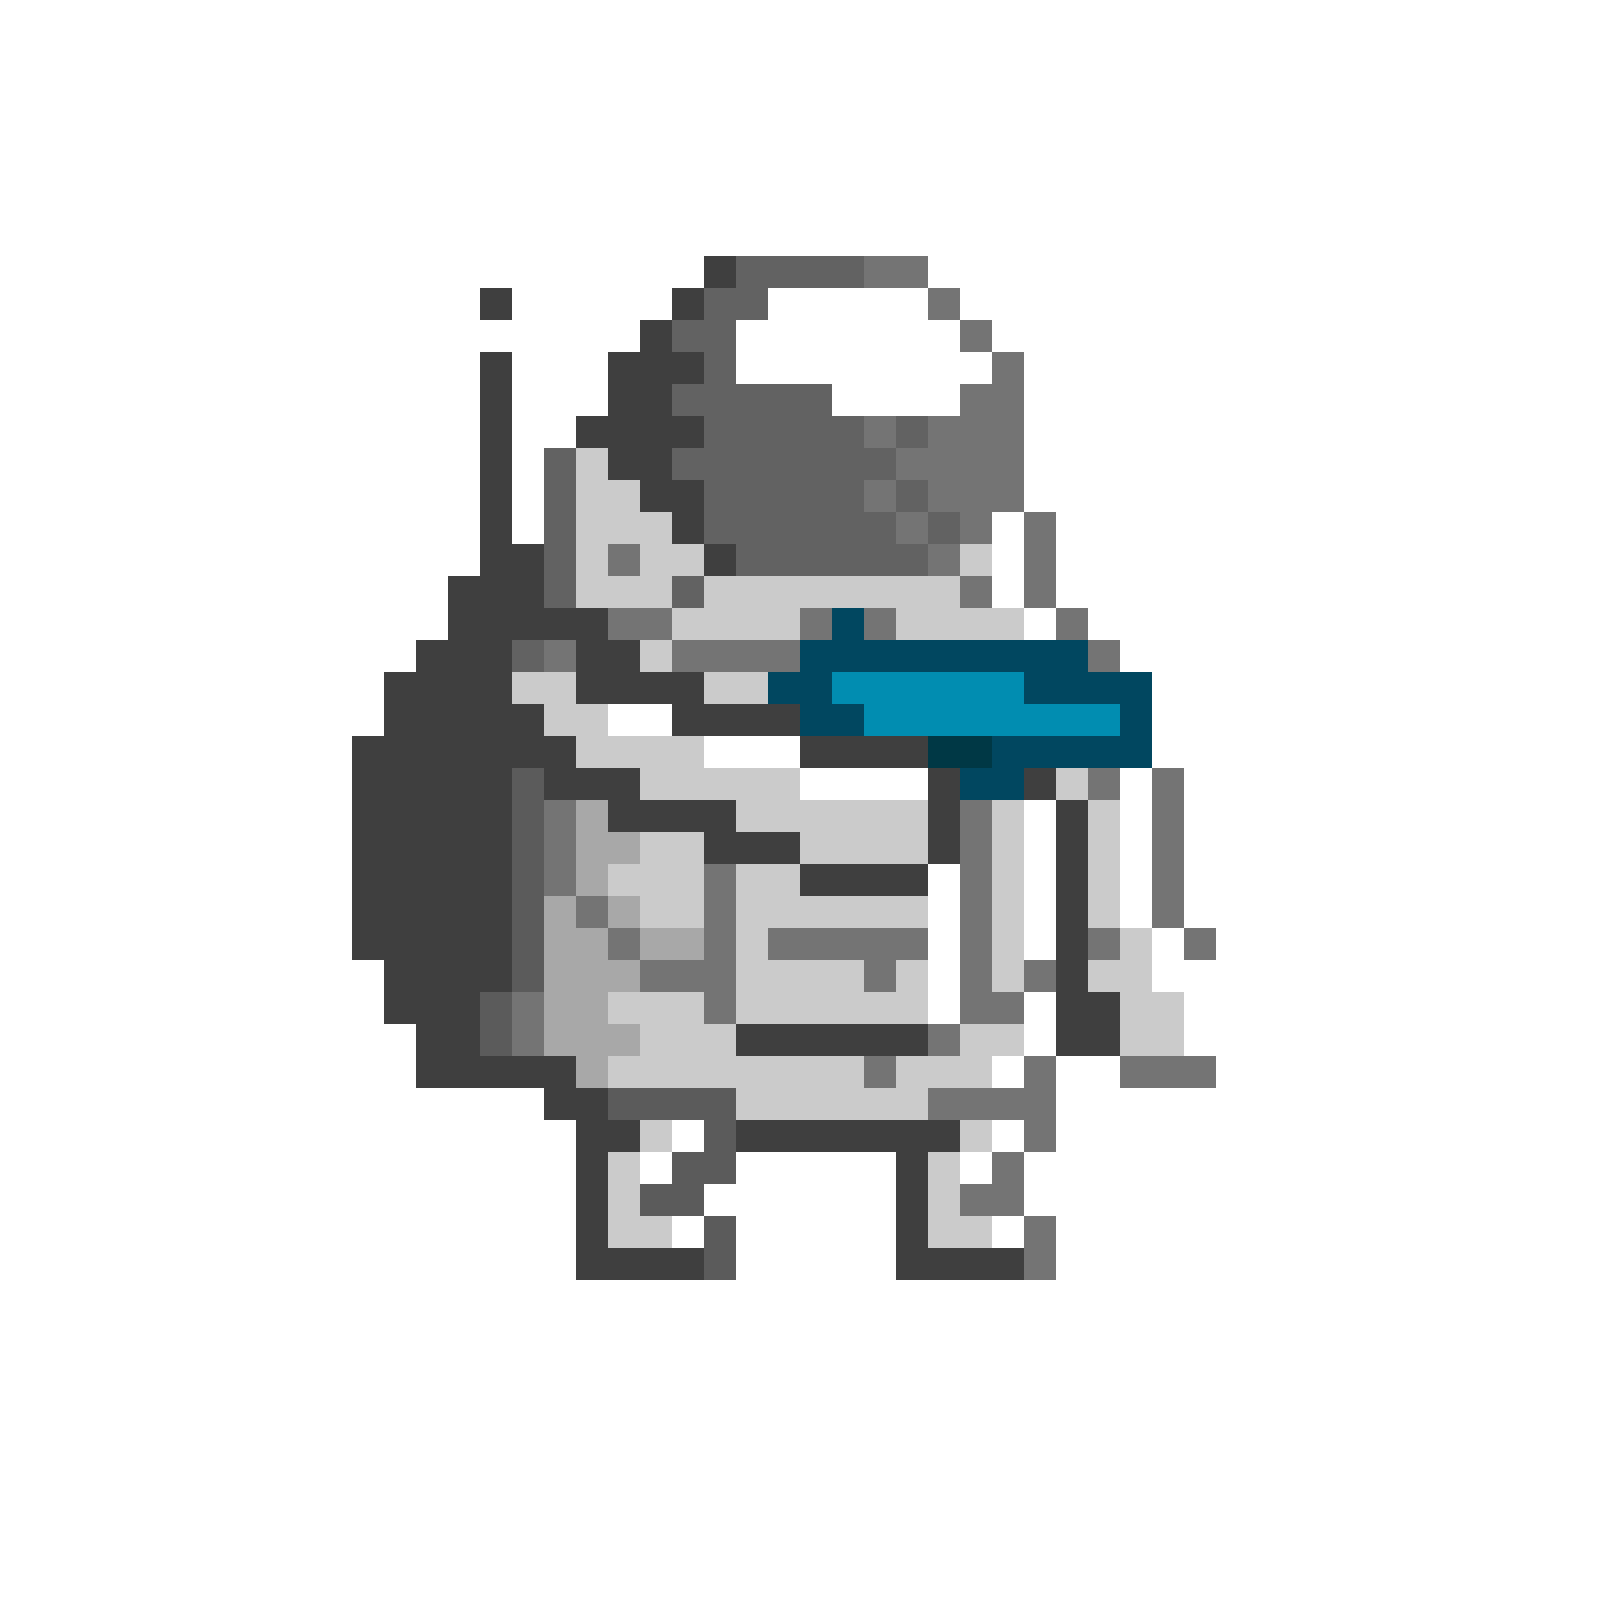
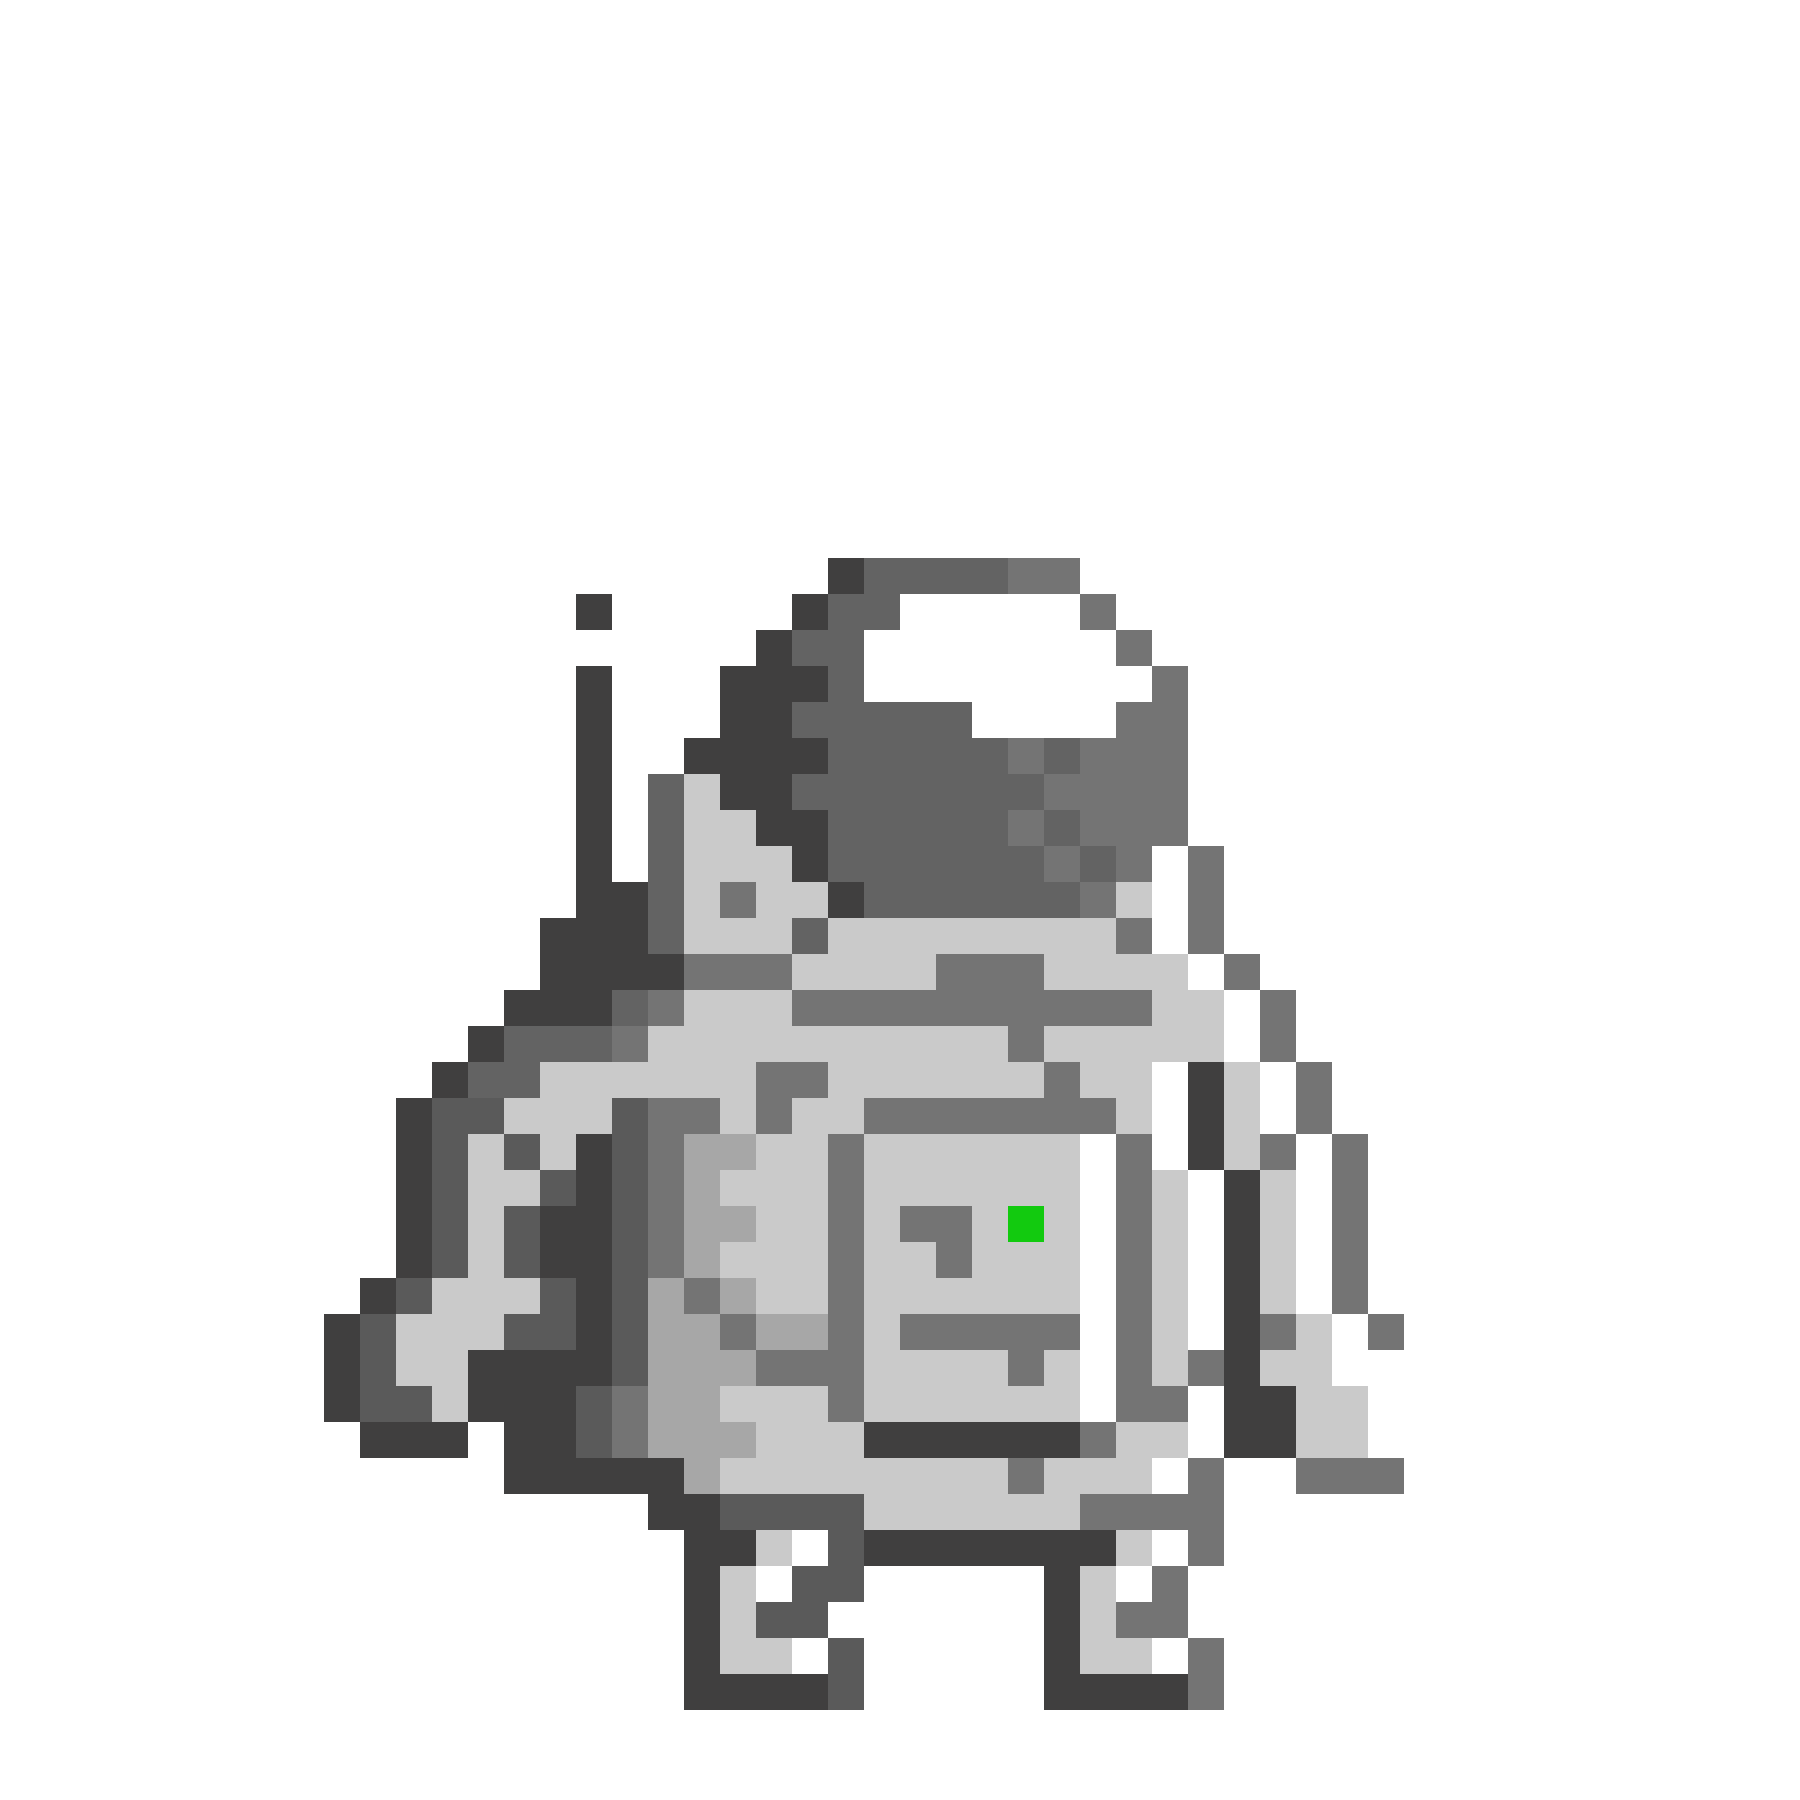
Add sprites

Changed region(s): [[0.1562, 0.1562, 0.7812, 0.9688]]

diff --git a/src/characters/Astronauts/DefenderTower.java b/src/characters/Astronauts/DefenderTower.java
@@ -14,13 +14,17 @@ public abstract class DefenderTower extends BoardCharacter{
 	public static final String EXPLOSIVE_ASTRO_JOE_IMAGE 	= "file:assets/explosive-astro-joe.png";
 	public static final String EXPLOSIVE_ASTRO_JOE_GIF		= "file:assets/explosive-astro-joe.gif";
 	
-	public static final String STARTRELL_CLUGGINS_IMAGE = "file:assets/startrell-cluggins.png";
+	public static final String STARTRELL_CLUGGINS_IMAGE 		= "file:assets/startrell-cluggins.png";
+	public static final String STARTRELL_CLUGGINS_GIF   		= "file:assets/startrell-cluggins.gif";
+	public static final String STARTRELL_CLUGGINS_FIRING_GIF   	= "file:assets/startrell-cluggins-firing.gif";
 	
 	public static final String TARS_IMAGE 				= "file:assets/tars.png";
 	public static final String TARS_GIF					= "file:assets/tars.gif";
 	public static final String TARS_FIRING_GIF			= "file:assets/tars-firing.gif";
 	
 	public static final String MOON_ZEUS_IMAGE 			= "file:assets/moon-zeus.png";
+	public static final String MOON_ZEUS_GIF 			= "file:assets/moon-zeus.gif";
+	public static final String MOON_ZEUS_FIRING_GIF		= "file:assets/moon-zeus-firing.gif";
 	
 	public static final String ASTEROID_IMAGE 			= "file:assets/asteroid.png";
 	public static final String ASTEROID_GIF				= "file:assets/asteroid.gif";
@@ -36,55 +40,55 @@ public abstract class DefenderTower extends BoardCharacter{
 	protected static final int HEALTH_ASTROJOE = 100;
 	protected static final int ATTACK_SPEED_ASTROJOE = 100;	
 	protected static final int DAMAGE_ASTROJOE = 100;
-	protected static final int COST_ASTROJOE = 15;
+	protected static final int COST_ASTROJOE = 25;
 	
 	// ExplosiveAstroJoe
 	protected static final int HEALTH_EXPLOSIVE_ASTROJOE = 100;
 	protected static final int ATTACK_SPEED_EXPLOSIVE_ASTROJOE = 100;
 	protected static final int DAMAGE_EXPLOSIVE_ASTROJOE = 100;
-	protected static final int COST_EXPLOSIVE_ASTROJOE = 25;
+	protected static final int COST_EXPLOSIVE_ASTROJOE = 50;
 	
 	// SpaceBucksPrinter
 	protected static final int HEALTH_SPACEBUCKS_PRINTER = 100;
 	protected static final int ATTACK_SPEED_SPACEBUCKS_PRINTER = 100;
 	protected static final int DAMAGE_SPACEBUCKS_PRINTER = 100;
-	protected static final int COST_SPACEBUCKS_PRINTER = 10;
+	protected static final int COST_SPACEBUCKS_PRINTER = 25;
 	
 	// SpaceBucksFactory
 	protected static final int HEALTH_SPACEBUCKS_FACTORY = 100;
 	protected static final int ATTACK_SPEED_SPACEBUCKS_FACTORY = 100;
 	protected static final int DAMAGE_SPACEBUCKS_FACTORY = 100;
-	protected static final int COST_SPACEBUCKS_FACTORY = 30;
+	protected static final int COST_SPACEBUCKS_FACTORY = 100;
 	
 	// StartrellCluggins
 	protected static final int HEALTH_STARTRELL_CLUGGINS = 100;
 	protected static final int ATTACK_SPEED_STARTRELL_CLUGGINS = 100;
 	protected static final int DAMAGE_STARTRELL_CLUGGINS = 100;
-	protected static final int COST_STARTRELL_CLUGGINS = 25;
+	protected static final int COST_STARTRELL_CLUGGINS = 50;
 	
 	// Asteroid
 	protected static final int HEALTH_ASTEROID = 100;
 	protected static final int ATTACK_SPEED_ASTEROID = 100;
 	protected static final int DAMAGE_ASTEROID = 100;
-	protected static final int COST_ASTEROID = 20;
+	protected static final int COST_ASTEROID = 25;
 	
 	// Tars
 	protected static final int HEALTH_TARS = 100;
 	protected static final int ATTACK_SPEED_TARS = 100;
 	protected static final int DAMAGE_TARS = 100;
-	protected static final int COST_TARS = 40;
+	protected static final int COST_TARS = 75;
 	
 	// MoonZeus
 	protected static final int HEALTH_MOON_ZEUS = 100;
 	protected static final int ATTACK_SPEED_MOON_ZEUS = 100;
 	protected static final int DAMAGE_MOON_ZEUS = 100;
-	protected static final int COST_MOON_ZEUS = 50;
+	protected static final int COST_MOON_ZEUS = 125;
 	
 	//MillenniumFalcon
 	protected static final int HEALTH_MILLENNIUM_FALCON = 100;
 	protected static final int ATTACK_SPEED_MILLENNIUM_FALCON = 100;
 	protected static final int DAMAGE_MILLENNIUM_FALCON = 100;
-	protected static final int COST_MILLENNIUM_FALCON = 100;
+	protected static final int COST_MILLENNIUM_FALCON = 250;
 	
 	
 	// Constructor

diff --git a/src/game/View.java b/src/game/View.java
@@ -44,6 +44,7 @@ public class View extends Application implements Observer{
 	// View-specific constants
 	private final int SCENE_WIDTH = 1300;
 	private final int SCENE_HEIGHT = 800;
+	private final int GP_CELL_SIZE = 80;
 	private final int CELL_GAP = 5;
 	private final int TITLE_TOP_MARGIN = 75;
 	private final int PROGRESSBAR_TOP_MARGIN = 50;
@@ -123,7 +124,7 @@ public class View extends Application implements Observer{
 		
 		// Create ImageViews for Astronaut & Alien
 		ImageView astronautImageView = new ImageView();
-		astronautImageView.setImage(new Image(DefenderTower.ASTRO_JOE_GIF, ASTRO_WIDTH, ASTRO_HEIGHT, false, false));
+		astronautImageView.setImage(new Image(DefenderTower.STARTRELL_CLUGGINS_GIF, ASTRO_WIDTH, ASTRO_HEIGHT, false, false));
 		
 		ImageView alienImageView = new ImageView();
 		alienImageView.setImage(new Image("file:assets/alien-sample.png", ALIEN_WIDTH, ALIEN_HEIGHT, false, false));
@@ -258,7 +259,7 @@ public class View extends Application implements Observer{
 		gridPane = new GridPane();
 		gridPane.setHgap(CELL_GAP);
 		gridPane.setVgap(CELL_GAP);
-		gridPane.setGridLinesVisible(true);
+//		gridPane.setGridLinesVisible(true);
 		gridPane.setAlignment(Pos.CENTER);
 		gridPane.setPadding(new Insets(GRIDPANE_TOP_MARGIN, 0, 0, 0));
 		
@@ -266,11 +267,11 @@ public class View extends Application implements Observer{
 		for (int row = 0; row < ROWS; row++) {
 			for (int col = 0; col < COLS; col++) {
 				if (col == 0) {
-					gridPane.add(new ImageView(new Image("file:assets/red-circle.jpg", 70, 70, false, false)), col, row);
+					gridPane.add(new ImageView(new Image("file:assets/red-circle.jpg", GP_CELL_SIZE, GP_CELL_SIZE, false, false)), col, row);
 				} else if (col == 11){
-					gridPane.add(new ImageView(new Image("file:assets/blue-circle.png", 70, 70, false, false)), col, row);
+					gridPane.add(new ImageView(new Image("file:assets/blue-circle.png", GP_CELL_SIZE, GP_CELL_SIZE, false, false)), col, row);
 				} else {
-					gridPane.add(new ImageView(new Image("file:assets/green-circle.png", 70, 70, false, false)), col, row);
+					gridPane.add(new ImageView(new Image("file:assets/green-circle.png", GP_CELL_SIZE, GP_CELL_SIZE, false, false)), col, row);
 				}
 			}
 		}
@@ -316,7 +317,10 @@ public class View extends Application implements Observer{
 					int col = GridPane.getColumnIndex(target);
 					
 					ImageView view = (ImageView)target;
+					view.setFitHeight(GP_CELL_SIZE);
+					view.setFitWidth(GP_CELL_SIZE);
 					view.setImage(db.getImage());
+//					view.setImage(new Image(DefenderTower.MOON_ZEUS_FIRING_GIF));
 					
 					System.out.println("Dropping into " + row + "," + col);
 					

diff --git a/src/characters/Astronauts/StartrellCluggins.java b/src/characters/Astronauts/StartrellCluggins.java
@@ -6,7 +6,7 @@ public class StartrellCluggins extends DefenderTower{
 	
 	public StartrellCluggins() {
 		super(HEALTH_STARTRELL_CLUGGINS, ATTACK_SPEED_STARTRELL_CLUGGINS, 
-				DAMAGE_STARTRELL_CLUGGINS, new Image(STARTRELL_CLUGGINS_IMAGE, SPRITE_WIDTH, SPRITE_HEIGHT, false, false));
+				DAMAGE_STARTRELL_CLUGGINS, new Image(STARTRELL_CLUGGINS_FIRING_GIF, SPRITE_WIDTH, SPRITE_HEIGHT, false, false));
 	}
 	
 	public int getCost() {

diff --git a/src/characters/Astronauts/ExplosiveAstroJoe.java b/src/characters/Astronauts/ExplosiveAstroJoe.java
@@ -6,7 +6,7 @@ public class ExplosiveAstroJoe extends DefenderTower{
 
 	public ExplosiveAstroJoe() {
 		super(HEALTH_EXPLOSIVE_ASTROJOE, ATTACK_SPEED_EXPLOSIVE_ASTROJOE, 
-				DAMAGE_EXPLOSIVE_ASTROJOE, new Image(EXPLOSIVE_ASTRO_JOE_IMAGE, SPRITE_WIDTH, SPRITE_HEIGHT, false, false));
+				DAMAGE_EXPLOSIVE_ASTROJOE, new Image(EXPLOSIVE_ASTRO_JOE_GIF, SPRITE_WIDTH, SPRITE_HEIGHT, false, false));
 	}
 
 	public int getCost() {

diff --git a/src/characters/Astronauts/AstroJoe.java b/src/characters/Astronauts/AstroJoe.java
@@ -8,7 +8,7 @@ public class AstroJoe extends DefenderTower {
 	// Constructor
 	public AstroJoe() {
 		super(HEALTH_ASTROJOE, ATTACK_SPEED_ASTROJOE, 
-				DAMAGE_ASTROJOE, new Image(ASTRO_JOE_IMAGE, SPRITE_WIDTH, SPRITE_HEIGHT, false, false));
+				DAMAGE_ASTROJOE, new Image(ASTRO_JOE_GIF, SPRITE_WIDTH, SPRITE_HEIGHT, false, false));
 	}
 	
 	public int getCost() {

diff --git a/src/characters/Astronauts/MoonZeus.java b/src/characters/Astronauts/MoonZeus.java
@@ -6,7 +6,7 @@ public class MoonZeus extends DefenderTower{
 	
 	public MoonZeus() {
 		super(HEALTH_MOON_ZEUS, ATTACK_SPEED_MOON_ZEUS, 
-				DAMAGE_MOON_ZEUS, new Image(MOON_ZEUS_IMAGE, SPRITE_WIDTH, SPRITE_HEIGHT, false, false));
+				DAMAGE_MOON_ZEUS, new Image(MOON_ZEUS_GIF, SPRITE_WIDTH, SPRITE_HEIGHT, false, false));
 	}
 	
 	public int getCost() {

diff --git a/src/characters/Astronauts/Asteroid.java b/src/characters/Astronauts/Asteroid.java
@@ -6,7 +6,7 @@ public class Asteroid extends DefenderTower{
 	
 	public Asteroid() {
 		super(HEALTH_ASTEROID, ATTACK_SPEED_ASTEROID, 
-				DAMAGE_ASTEROID, new Image(ASTEROID_IMAGE, SPRITE_WIDTH, SPRITE_HEIGHT, false, false));
+				DAMAGE_ASTEROID, new Image(ASTEROID_GIF, SPRITE_WIDTH, SPRITE_HEIGHT, false, false));
 	}
 	
 	public int getCost() {

diff --git a/src/characters/Astronauts/Tars.java b/src/characters/Astronauts/Tars.java
@@ -6,7 +6,7 @@ public class Tars extends DefenderTower{
 	
 	public Tars() {
 		super(HEALTH_TARS, ATTACK_SPEED_TARS, 
-				DAMAGE_TARS, new Image(TARS_IMAGE, SPRITE_WIDTH, SPRITE_HEIGHT, false, false));
+				DAMAGE_TARS, new Image(TARS_GIF, SPRITE_WIDTH, SPRITE_HEIGHT, false, false));
 	}
 	
 	public int getCost() {
